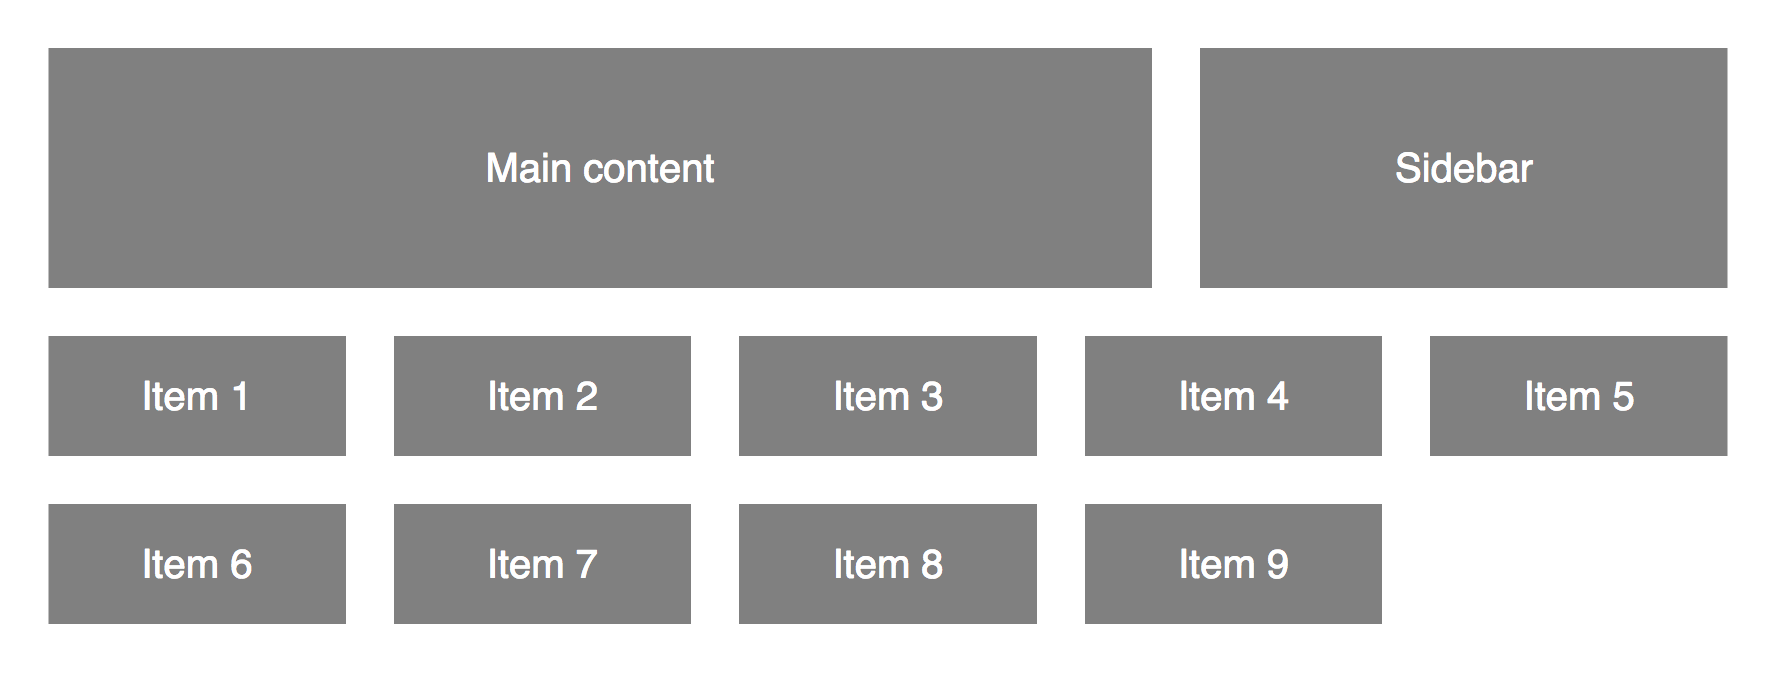
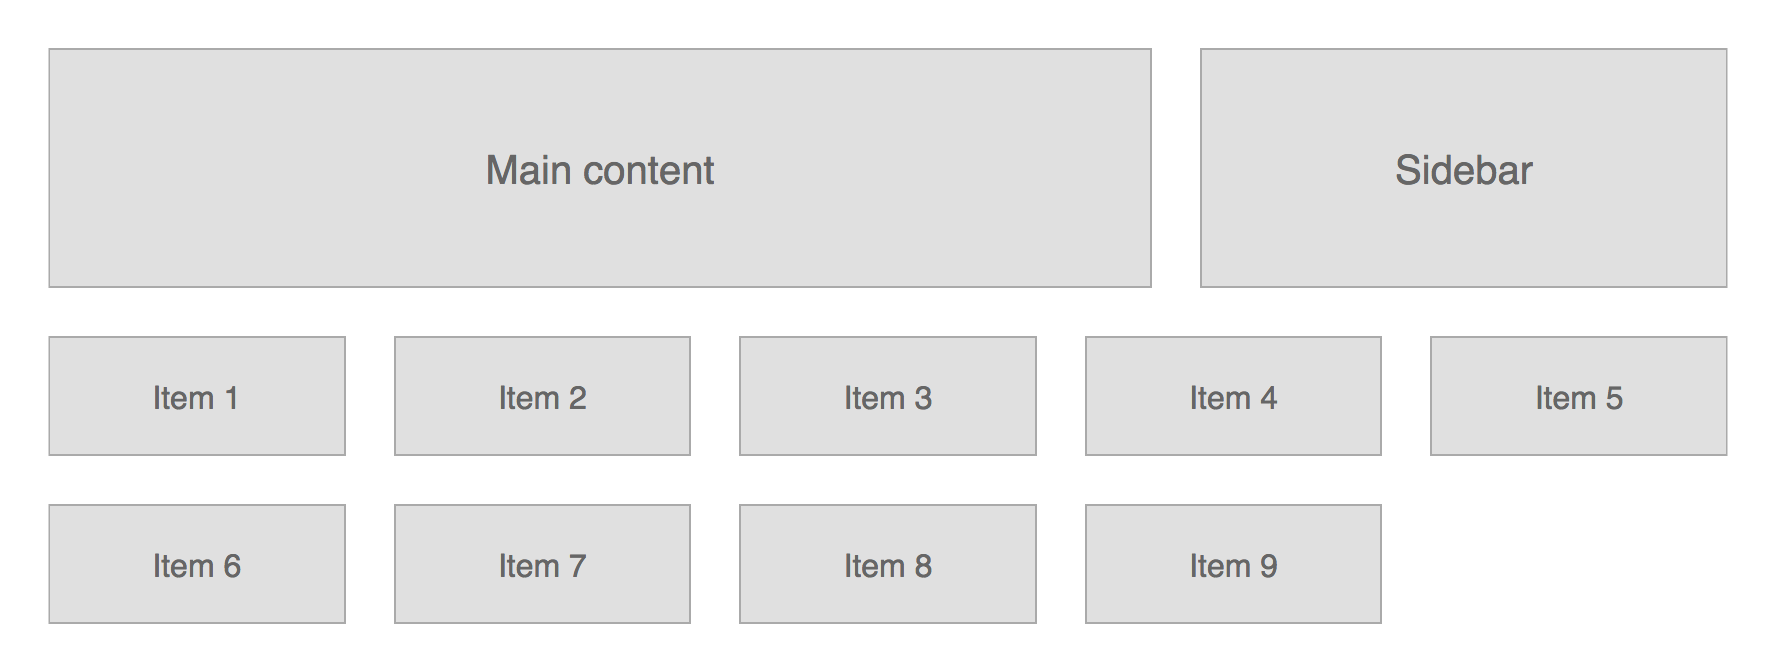
Improve the look of the second example.

diff --git a/examples/002_Columns/stylesheet.less b/examples/002_Columns/stylesheet.less
@@ -33,7 +33,7 @@ time, mark, audio, video {
 
 html {
 	width: @grid-width;
-	padding: @grid-gutter;
+	padding: 0 @grid-gutter;
 	font-family: sans-serif;
 }
 
@@ -47,11 +47,19 @@ html {
 
 .use-column-grid(default);
 
+main {
+	padding-top: @grid-gutter;
+	// .show-columns();
+	// .show-gutters(5);
+}
+
 #content, #sidebar, #grid > * {
+	box-sizing: border-box;
 	height: 120px;
 	margin-bottom: @grid-gutter;
-	background: grey;
-	color: white;
+	border: 1px solid #aaa;
+	background: fade(black, 12.5%);
+	color: #666;
 	font-size: 20px;
 	line-height: 120px;
 	text-align: center;
@@ -66,18 +74,21 @@ html {
 }
 #grid {
 	.use-column-grid(item);
+	// clear: both;
 	list-style: none;
 	
 	> * {
 		display: inline-block;
 		.width(1);
 		.margin-right(@grid-gutter);
+		vertical-align: top;
 		
 		&:nth-child(5n) {
 			margin-right: 0;
 		}
 		
 		height: 60px;
+		font-size: 16px;
 		line-height: 60px;
 	}
 }

diff --git a/examples/002_Columns/stylesheet.css b/examples/002_Columns/stylesheet.css
@@ -92,16 +92,21 @@ video {
 }
 html {
   width: 840px;
-  padding: 24px;
+  padding: 0 24px;
   font-family: sans-serif;
+}
+main {
+  padding-top: 24px;
 }
 #content,
 #sidebar,
 #grid > * {
+  box-sizing: border-box;
   height: 120px;
   margin-bottom: 24px;
-  background: grey;
-  color: white;
+  border: 1px solid #aaa;
+  background: rgba(0, 0, 0, 0.125);
+  color: #666;
   font-size: 20px;
   line-height: 120px;
   text-align: center;
@@ -125,7 +130,9 @@ html {
   width: calc(20% - 19.2px);
   margin-right: 2.85714286%;
   margin-right: calc(0% + 0px + 24px);
+  vertical-align: top;
   height: 60px;
+  font-size: 16px;
   line-height: 60px;
 }
 #grid > *:nth-child(5n) {
